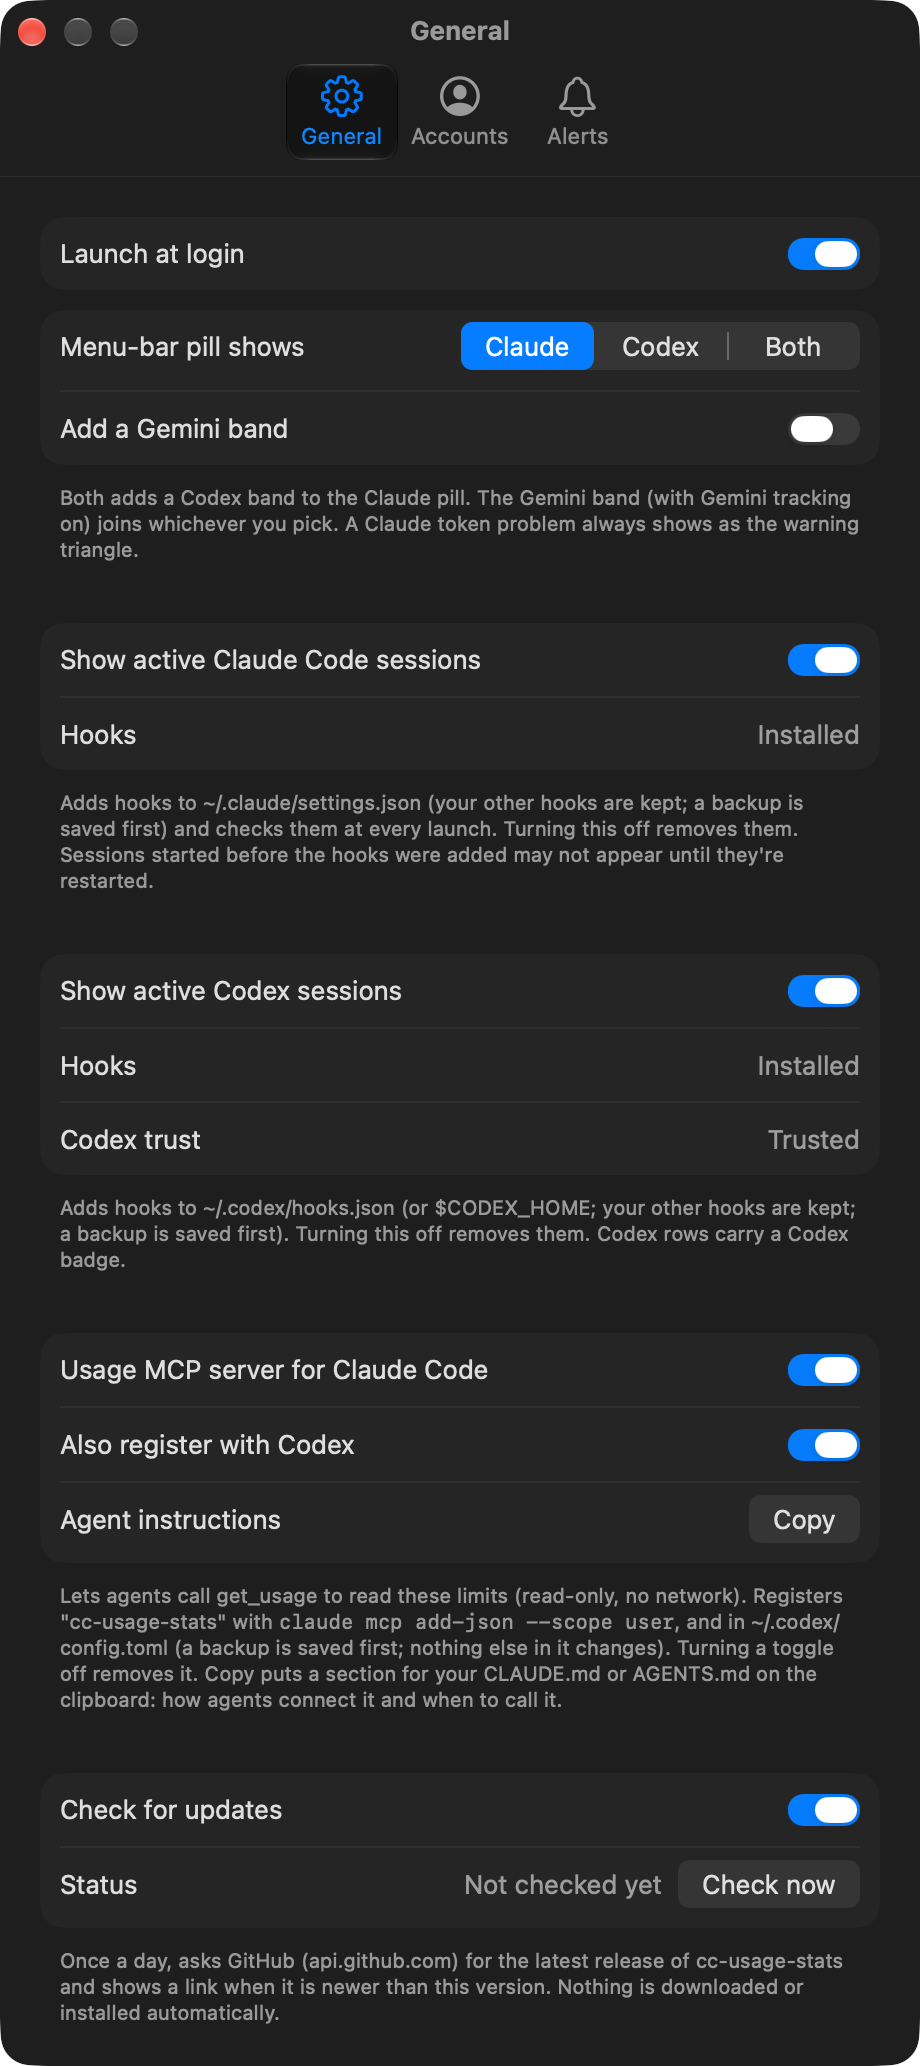
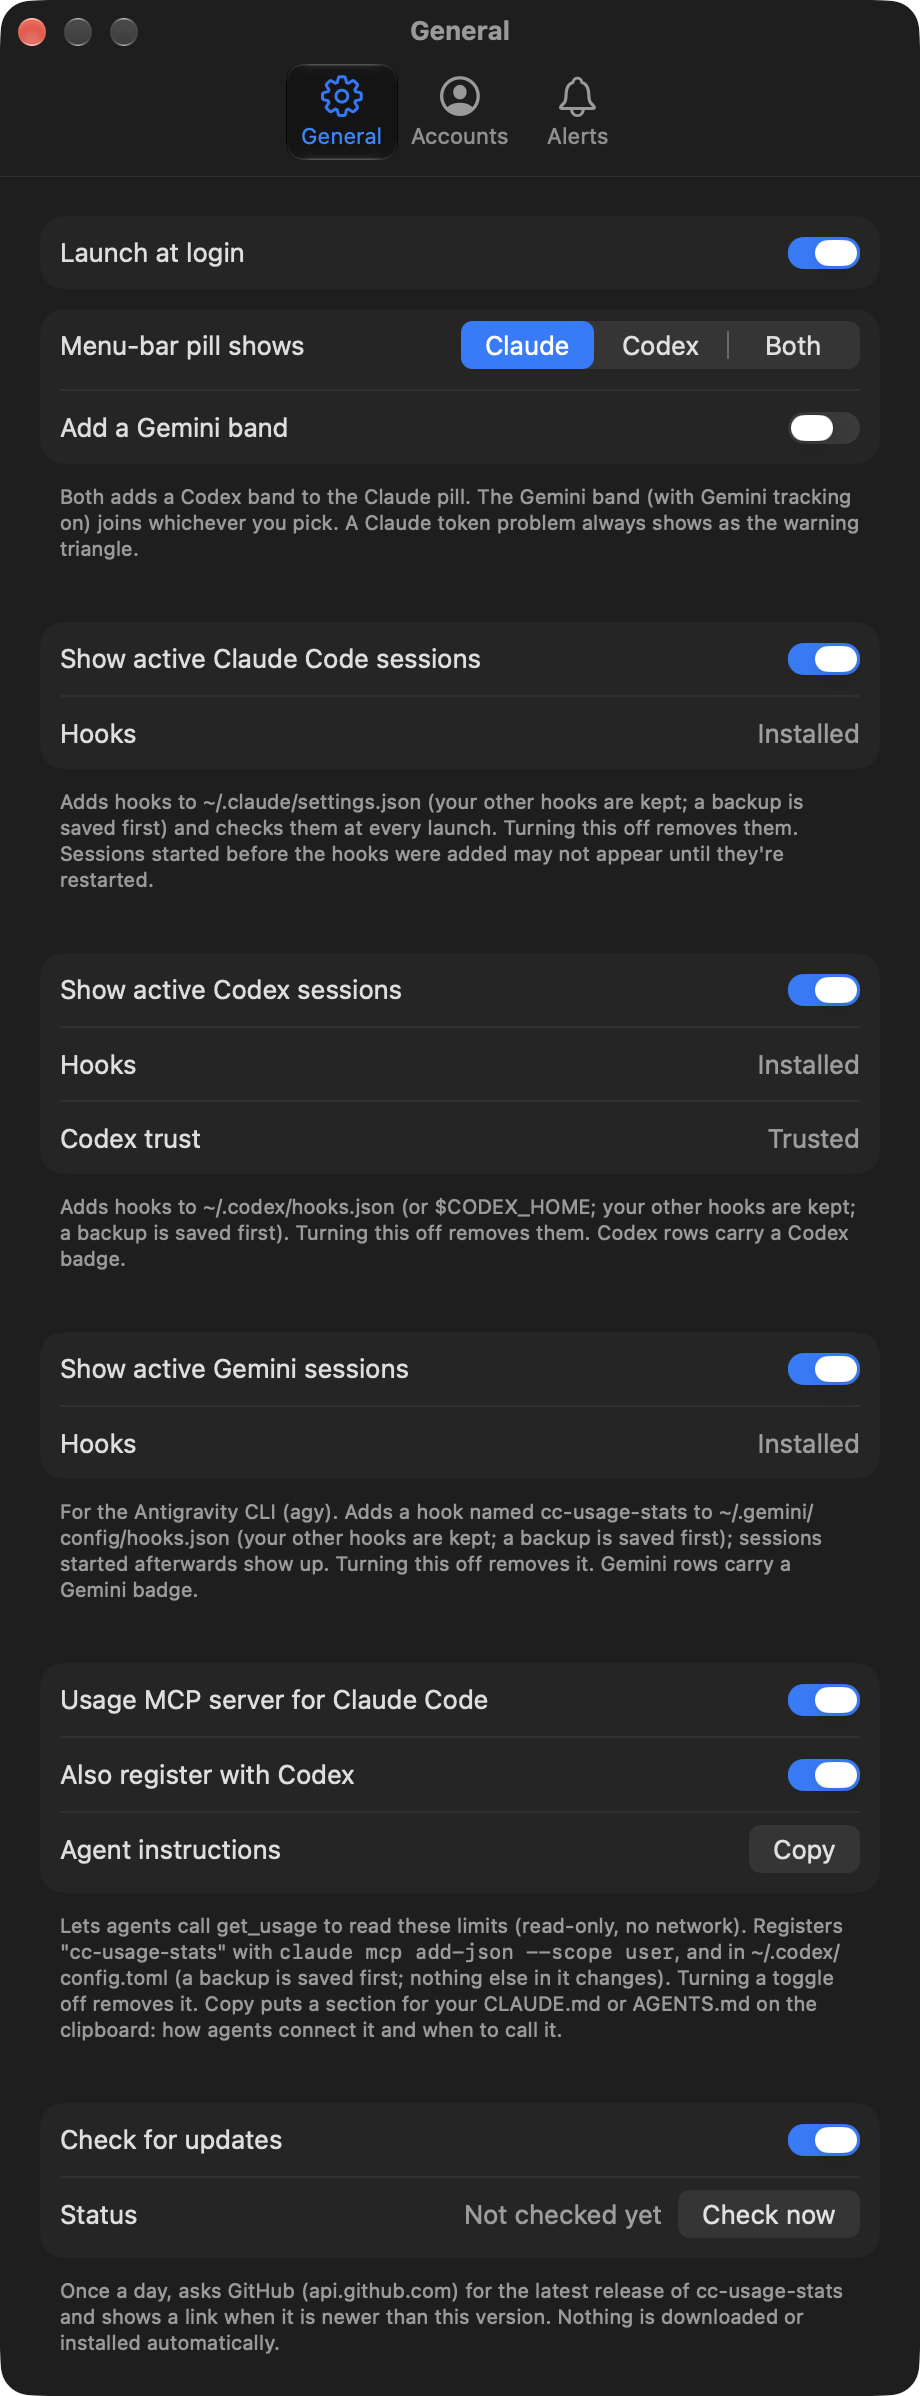
docs: Settings General screenshots show Show active Gemini sessions

diff --git a/README.md b/README.md
@@ -246,8 +246,8 @@ Gemini windows; the gauge needle always shows the absolute level.
 ### Settings window
 
 <picture>
-  <source media="(prefers-color-scheme: dark)" srcset="docs/screenshots/settings-general-dark.png?v=0.22.1">
-  <img alt="Settings — General tab" src="docs/screenshots/settings-general-light.png?v=0.22.1" width="460">
+  <source media="(prefers-color-scheme: dark)" srcset="docs/screenshots/settings-general-dark.png?v=0.24.0">
+  <img alt="Settings — General tab" src="docs/screenshots/settings-general-light.png?v=0.24.0" width="460">
 </picture>
 &nbsp;
 <picture>
